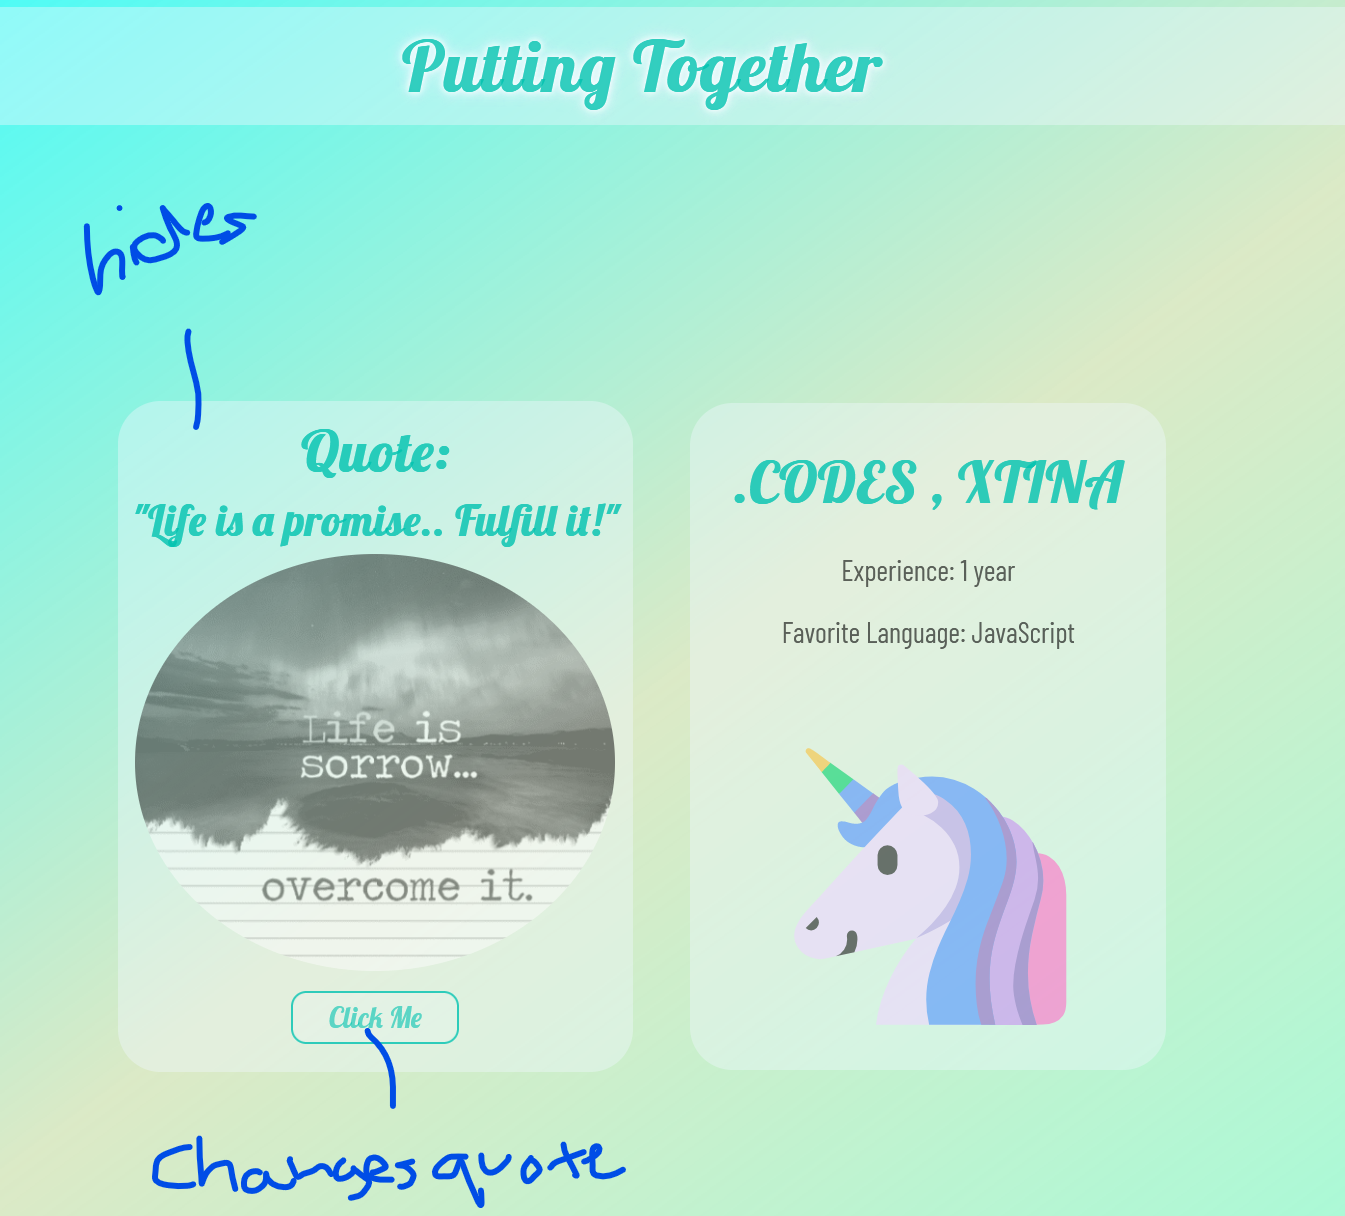
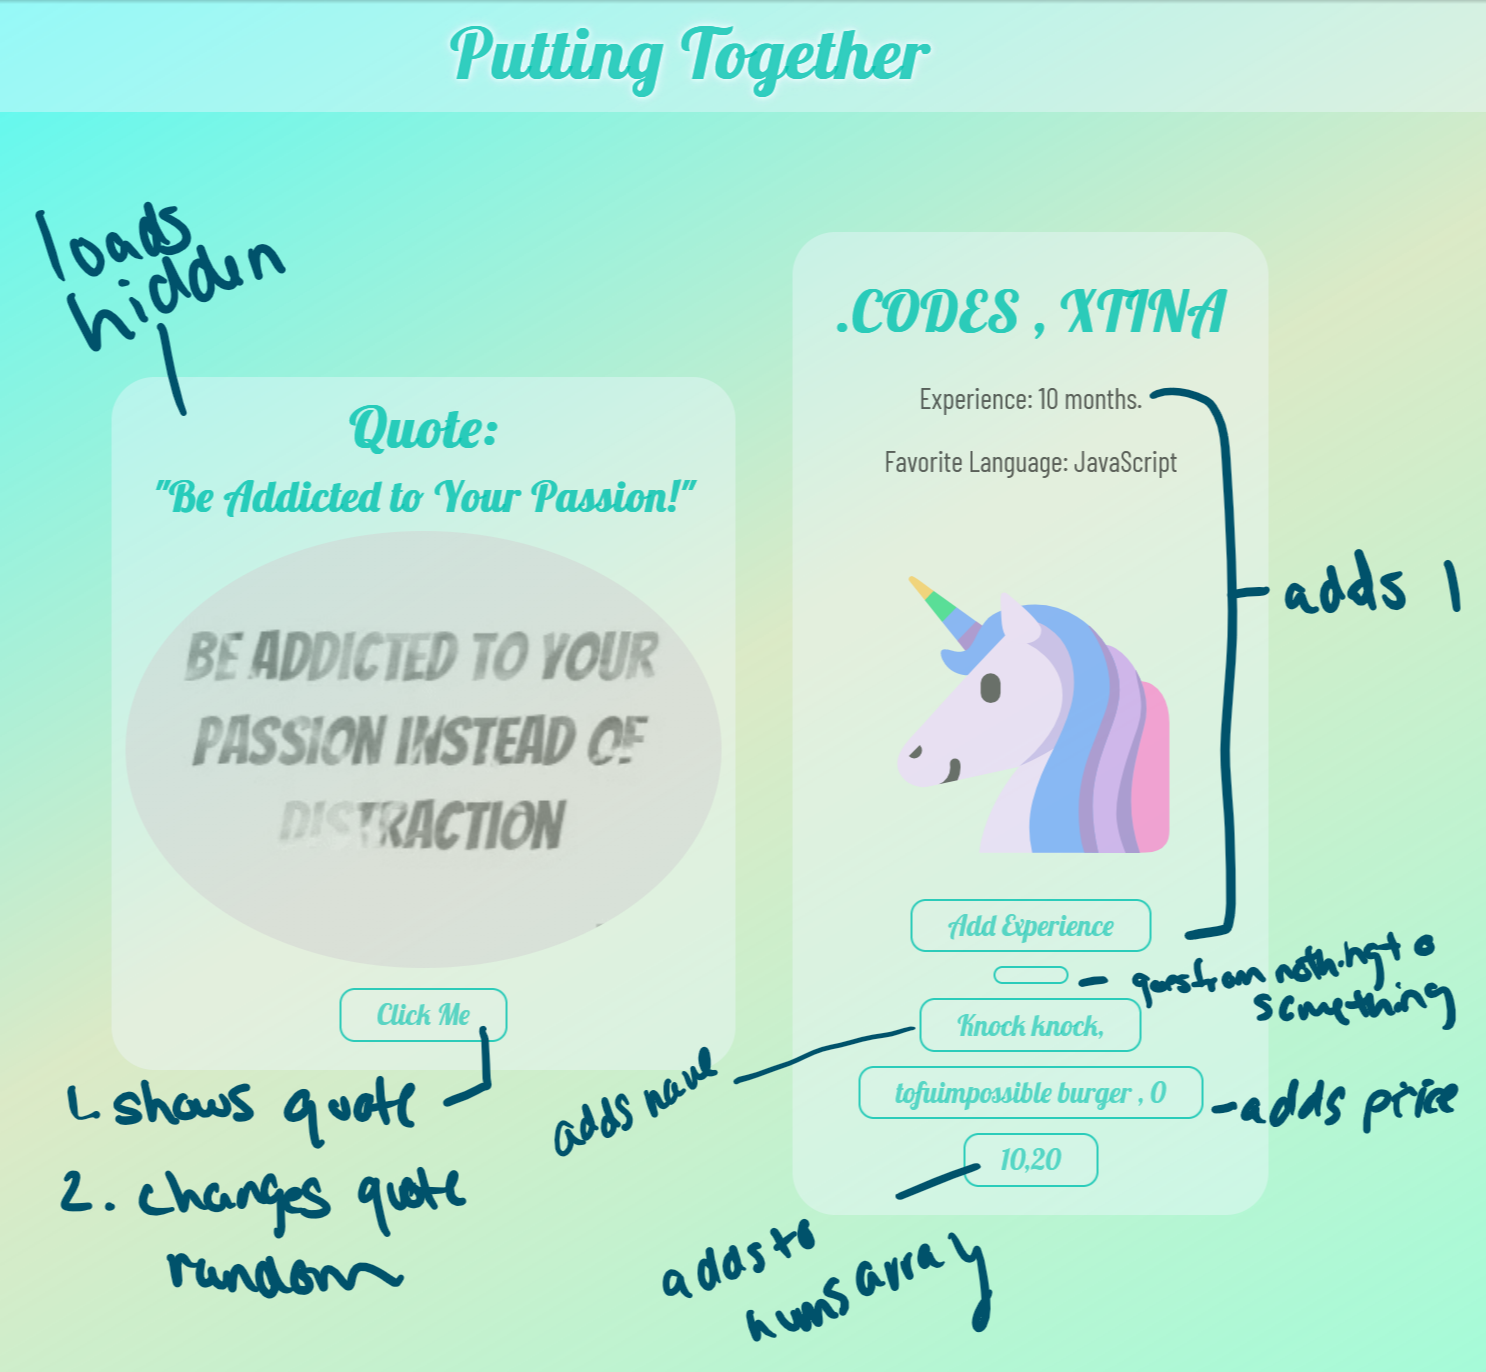
add more hooks and buttons

diff --git a/2. React/putting-together/src/components/Person.js b/2. React/putting-together/src/components/Person.js
@@ -1,6 +1,33 @@
-import React from 'react';
+import React, {useState} from 'react';
+// const handleClick = () => {
+//     console.log(`this is:clicked ${this.id}`);
+// }
 
 const Person = (props) => {
+    //USE STATE USE CASES
+    // count
+    const [ count, setCount ] = useState(props.experience);
+    // string
+    const [text, setText] = useState("");
+    // string
+    const [knock, setKnock] = useState({
+        greeting: "Knock knock, "
+    });
+    // object
+    const [state, setState] = useState({
+        items: ['tofu', 'impossible burger'],
+        totalPrice: 0.00
+    });
+    // arr
+    const [arr, setArr] = useState([10,20]);
+    const manipulate = () => {
+        let x = arr;
+        for(let i=1; i<=5; i++) x.push(i);
+        setState(x);
+    }
+
+
+
     return (
         <div>
             <ul>
@@ -10,7 +37,7 @@ const Person = (props) => {
                     </h1>
                 </li>
                 <li>
-                    Experience: {props.experience}
+                    Experience: {count} months.
                 </li>
                 <li>
                     Favorite Language: {props.lang}
@@ -19,6 +46,29 @@ const Person = (props) => {
                     {props.icon}
                 </span>
             </ul>
+
+            <div>
+                <button onClick={() => setCount(count+1)}>
+                    Add Experience
+                </button>
+
+                <button onClick={() => setText((text === "")? "something" : "" )}>
+                    {text}
+                </button>
+
+                <button onClick={() => setKnock({ greeting: knock.greeting + "JS IS AWESOME" }) }>
+                    {knock.greeting}
+                </button>
+
+                <button onClick={() => setState({ items: state.items, totalPrice: state.totalPrice + 10.99 })}>
+                    {state.items} , {state.totalPrice}
+                </button>
+
+                <button onClick={ () => manipulate() }>
+                    {arr.join(",")}
+                </button>
+
+            </div>
         </div>
     );
 }

diff --git a/2. React/putting-together/src/App.css b/2. React/putting-together/src/App.css
@@ -164,7 +164,7 @@ button {
     margin: 1vh auto;
     transition-duration: 0.4s;
     /* background */
-    background-color: rgba(240, 248, 255, 0.2);
+    background-color: rgba(240, 248, 255, 0.1);
     /* border padding */
     border: 0.15vh rgba(0, 194, 175, 0.8) solid;
     border-radius: 1vh;
@@ -177,14 +177,6 @@ button {
 }
 
     button:hover {
-        background-image: 
-        linear-gradient(
-        to bottom right, 
-        rgba(0, 255, 255, 0.5), 
-        rgba(184, 212, 142, 0.5), 
-        rgba(128, 255, 212, 0.5));
-        border: none;
-        color: rgba(255, 255, 255, 0.7);
         transform: translateY(-0.25vh);
     }
 

diff --git a/2. React/putting-together/src/App.js b/2. React/putting-together/src/App.js
@@ -7,7 +7,7 @@ import Person from './components/Person'
 function App() {
   return (
     <>
-    
+
       <Header title={"Putting Together"} />
       
       <main>
@@ -18,7 +18,7 @@ function App() {
           <Person
             first = {"XTINA"}
             last = {".CODES"}
-            experience = {"1 year"}
+            experience = {10}
             lang = {"JavaScript"}
             icon = {"🦄"}>
           </Person>
